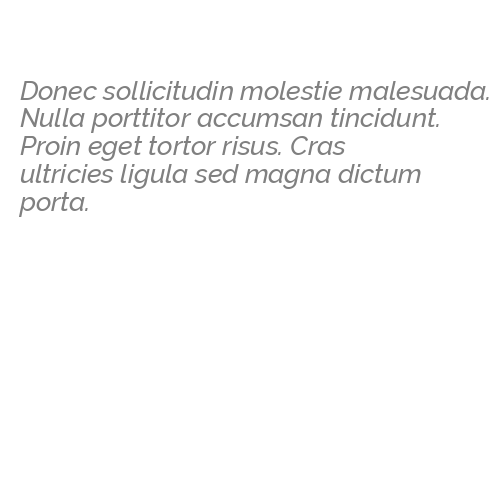
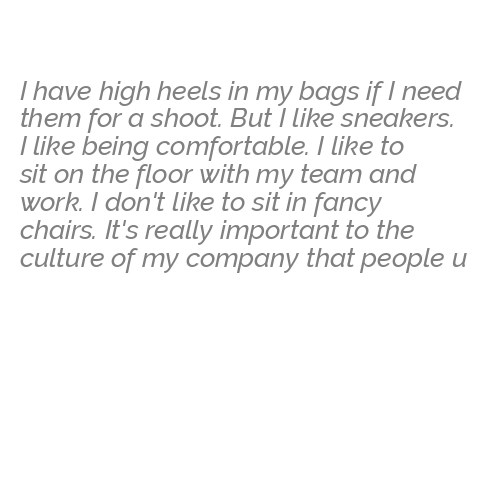
Watermark added

Changed region(s): [[0.03, 0.15, 0.99, 0.54]]

diff --git a/image/index.php b/image/index.php
@@ -5,7 +5,7 @@
 header('Content-Type: image/png');
 
 // The text to draw
-$text = 'Donec sollicitudin molestie malesuada. Nulla porttitor accumsan tincidunt. Proin eget tortor risus. Cras ultricies ligula sed magna dictum porta.';
+$text = "Of course; there are those critics - New York critics as a rule - who say; 'Well; Maya Angelou has a new book out and of course it's good but then she's a natural writer.' Those are the ones I want to grab by the throat and wrestle to the floor because it";
 
 $text = wordwrap($text, 38, "\n");
 
@@ -15,7 +15,6 @@ $im = imagecreatetruecolor(500, 500);
 // Create some colors
 $white = imagecolorallocate($im, 255, 255, 255);
 $grey = imagecolorallocate($im, 128, 128, 128);
-$black = imagecolorallocate($im, 0, 0, 0);
 imagefilledrectangle($im, 0, 0, 499, 499, $white);
 
 // Replace path by your own font path
@@ -30,7 +29,7 @@ imagettftext($im, 20, 0, 20, 100, $grey, $font, $text);
 // Using imagepng() results in clearer text compared with imagejpeg()
 imagepng($im);
 imagedestroy($im);
-
+exit;
 // */
 
 // To add an watermark image on the image
@@ -39,7 +38,7 @@ $stamp = imagecreatefrompng('stamp.png');
 $im = imagecreatefrompng('download.png');
 
 // Set the margins for the stamp and get the height/width of the stamp image
-$marge_right = 180;
+$marge_right = 30;
 $marge_bottom = 50;
 $sx = imagesx($stamp);
 $sy = imagesy($stamp);
@@ -52,6 +51,3 @@ imagecopy($im, $stamp, imagesx($im) - $sx - $marge_right, imagesy($im) - $sy - $
 header('Content-type: image/png');
 imagepng($im);
 imagedestroy($im);
-
-
-
